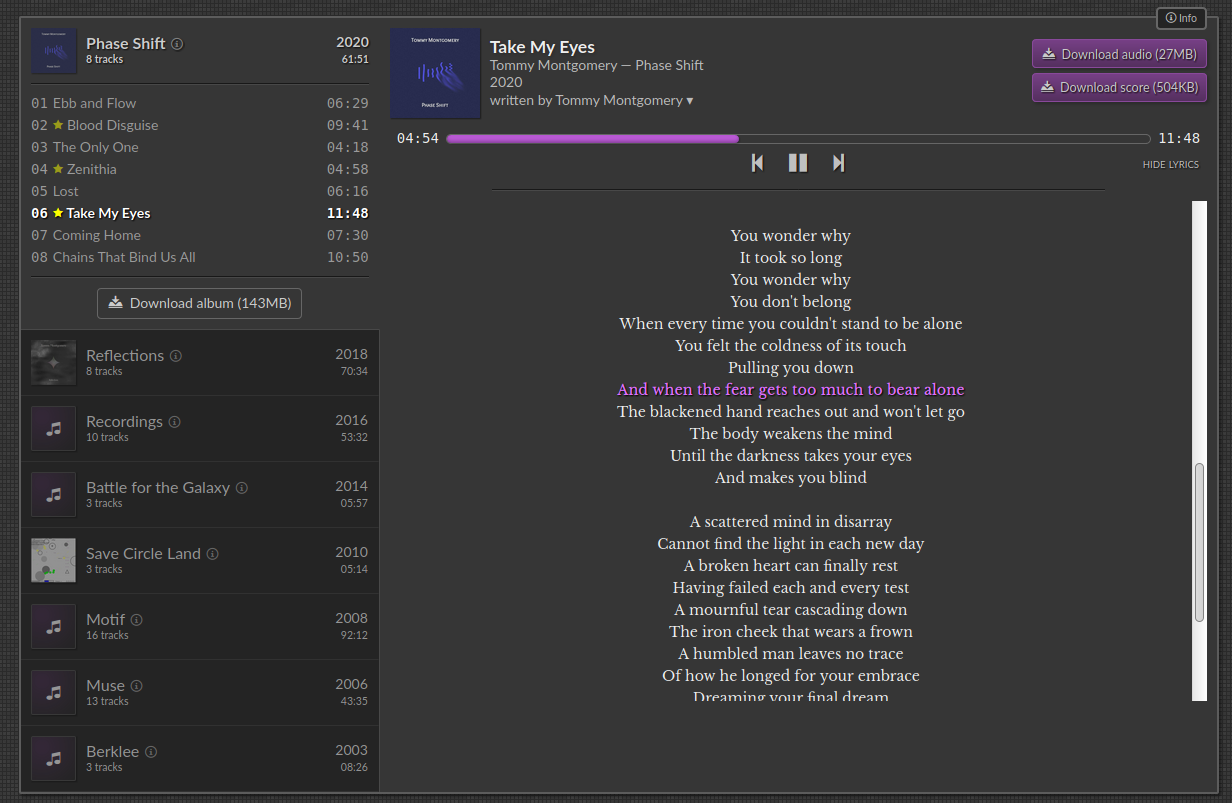
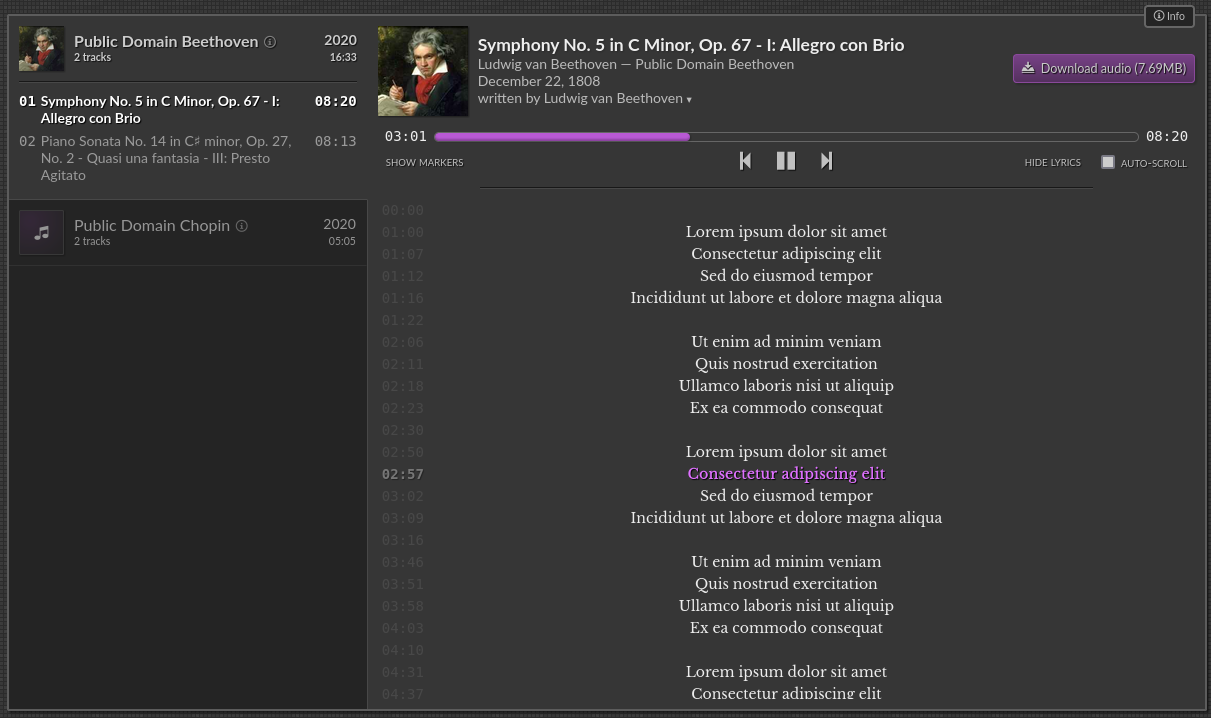
fixed lyric auto-scroll, updated images, added lyric times

diff --git a/analbum.js b/analbum.js
@@ -280,14 +280,18 @@
 	const markerTemplate = `
 <div class="analbum-track-marker">
 	<div class="analbum-track-marker-line"></div>
-	<div class="analbum-track-marker-label">
+	<a class="analbum-track-marker-label" href="#">
 		<div class="analbum-track-marker-time"></div>
 		<div class="analbum-divider"></div>
 		<div class="analbum-track-marker-content"></div>
-	</div>
+	</a>
 </div>`;
 
-	const lyricLineTemplate = `<div class="analbum-lyric-line"><a href="#"></a></div>`;
+	const lyricLineTemplate = `
+<div class="analbum-lyric-line">
+	<span class="analbum-lyric-line-time analbum-sm-hide"></span>
+	<a href="#"></a>
+</div>`;
 
 	const template = `
 <div class="analbum-container">
@@ -367,8 +371,8 @@
 						<div class="analbum-control analbum-toggle-lyrics" title="Toggle lyrics (L)">
 							<span>hide</span> lyrics
 						</div>
-						<label class="analbum-control analbum-lyrics-auto-scroll">
-							<input type="checkbox" checked />
+						<label class="analbum-control analbum-lyrics-auto-scroll analbum-sm-hide" title="Keep current lyric line in viewport">
+							<input type="checkbox" />
 							auto-scroll
 						</label>
 					</div>
@@ -861,8 +865,15 @@
 								});
 								line.classList.add('analbum-lyric-current');
 
-								if (this.autoScrollLyrics && line.offsetTop - lyricsContainer.scrollTop > lyricsContainer.scrollHeight) {
-									lyricsContainer.scrollTop = line.offsetTop + 50;
+								if (this.autoScrollLyrics) {
+									const lineTop = line.offsetTop;
+									const scrollableHeight = lyricsContainer.offsetHeight;
+									const fudge = 50;
+									const diff = lineTop - lyricsContainer.scrollTop;
+
+									if (diff < fudge || diff > scrollableHeight - fudge) {
+										lyricsContainer.scrollTop = Math.max(0, lineTop - scrollableHeight + fudge);
+									}
 								}
 							} catch (e) {
 								// line for timestamp not found
@@ -1058,7 +1069,6 @@
 								textContainer.appendChild(document.createTextNode(line));
 							}
 
-
 							const time = times[i];
 							if (time) {
 								const timestamp = parseDurationMs(time);
@@ -1067,6 +1077,8 @@
 									e.preventDefault();
 									this.seekToTimeMs(timestamp);
 								});
+
+								cloned.querySelector('.analbum-lyric-line-time').appendChild(document.createTextNode(time));
 							}
 
 							if (this.currentAlbum) {
@@ -1177,7 +1189,9 @@
 					node.querySelector('.analbum-track-marker-time').innerText = prettyTime;
 					node.style.left = (offset * 100) + '%';
 					const label = node.querySelector('.analbum-track-marker-label');
-					label.addEventListener('click', () => {
+					label.href = track.getUrl(playingAlbum, prettyTime);
+					label.addEventListener('click', (e) => {
+						e.preventDefault();
 						this.seekToTimeMs(time);
 					});
 					label.setAttribute('title', `seek to ${prettyTime}`);

diff --git a/analbum.css b/analbum.css
@@ -256,6 +256,7 @@
 	font-size: 14px;
 	margin-top: 10px;
 	line-height: 22px;
+	position: relative;
 }
 .analbum-lyric-line a {
 	color: #ececec;
@@ -263,6 +264,18 @@
 .analbum-lyric-current a {
 	font-weight: bold;
 	color: #df70ff;
+	text-shadow: 1px 1px 1px black;
+}
+.analbum-lyric-line-time {
+	position: absolute;
+	left: 4px;
+	font-family: monospace;
+	opacity: 0.1;
+}
+
+.analbum-lyric-current .analbum-lyric-line-time {
+	opacity: 0.35;
+	font-weight: bold;
 	text-shadow: 1px 1px 1px black;
 }
 
@@ -692,7 +705,7 @@
 	z-index: 1;
 	text-align: center;
 	display: none;
-	opacity: 0.75;
+	opacity: 0.9;
 }
 
 .analbum-track-marker:hover {
@@ -846,5 +859,8 @@
 	.analbum-track-credits-popup {
 		max-width: 240px;
 		white-space: normal;
+	}
+	.analbum-sm-hide {
+		display: none;
 	}
 }
